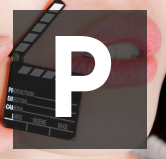
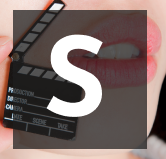
Change images

Changed region(s): [[0.2711, 0.2264, 0.6928, 0.7547], [0.4217, 0.2013, 0.6024, 0.2516]]

diff --git a/src/app/containers/default-layout/layout.component.html b/src/app/containers/default-layout/layout.component.html
@@ -7,7 +7,7 @@
 >
   <c-sidebar-brand
     [brandFull]="{
-      src: '/assets/images/Pussy-Ventures-Logo.png',
+      src: '/assets/images/Stripper.social.png',
       width: 255,
       height: 66,
       alt: 'CoreUI Logo'
